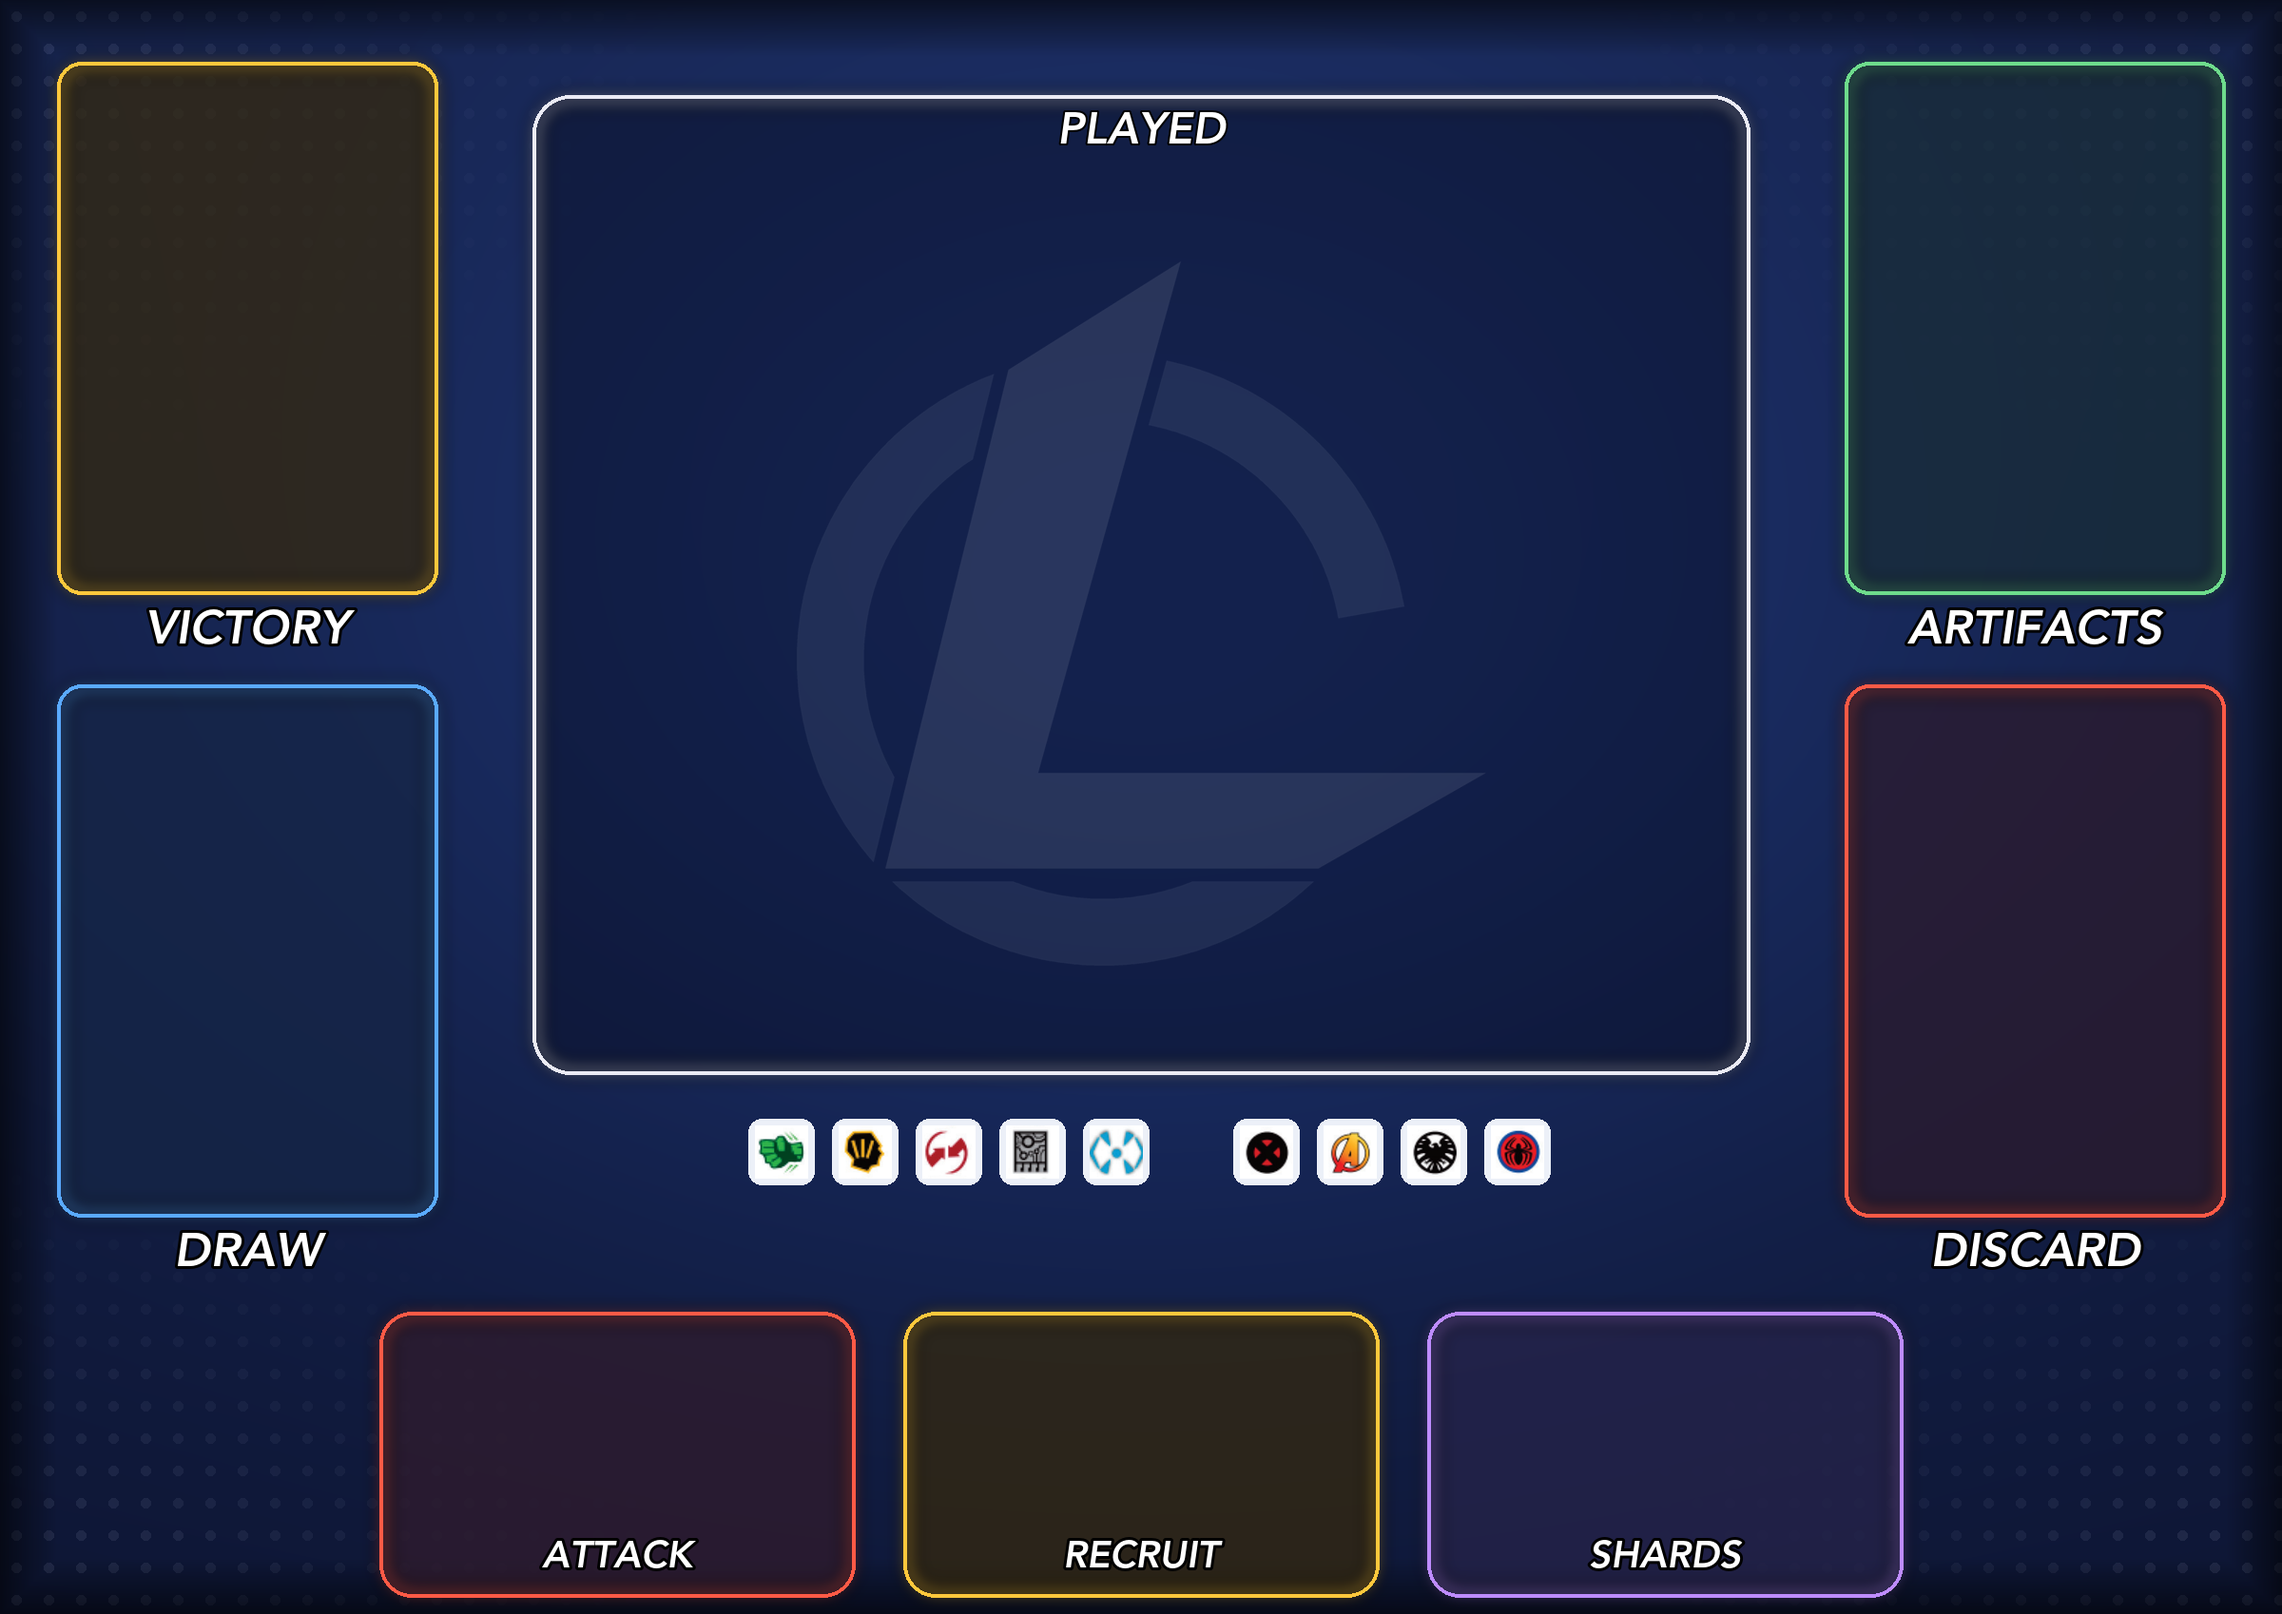
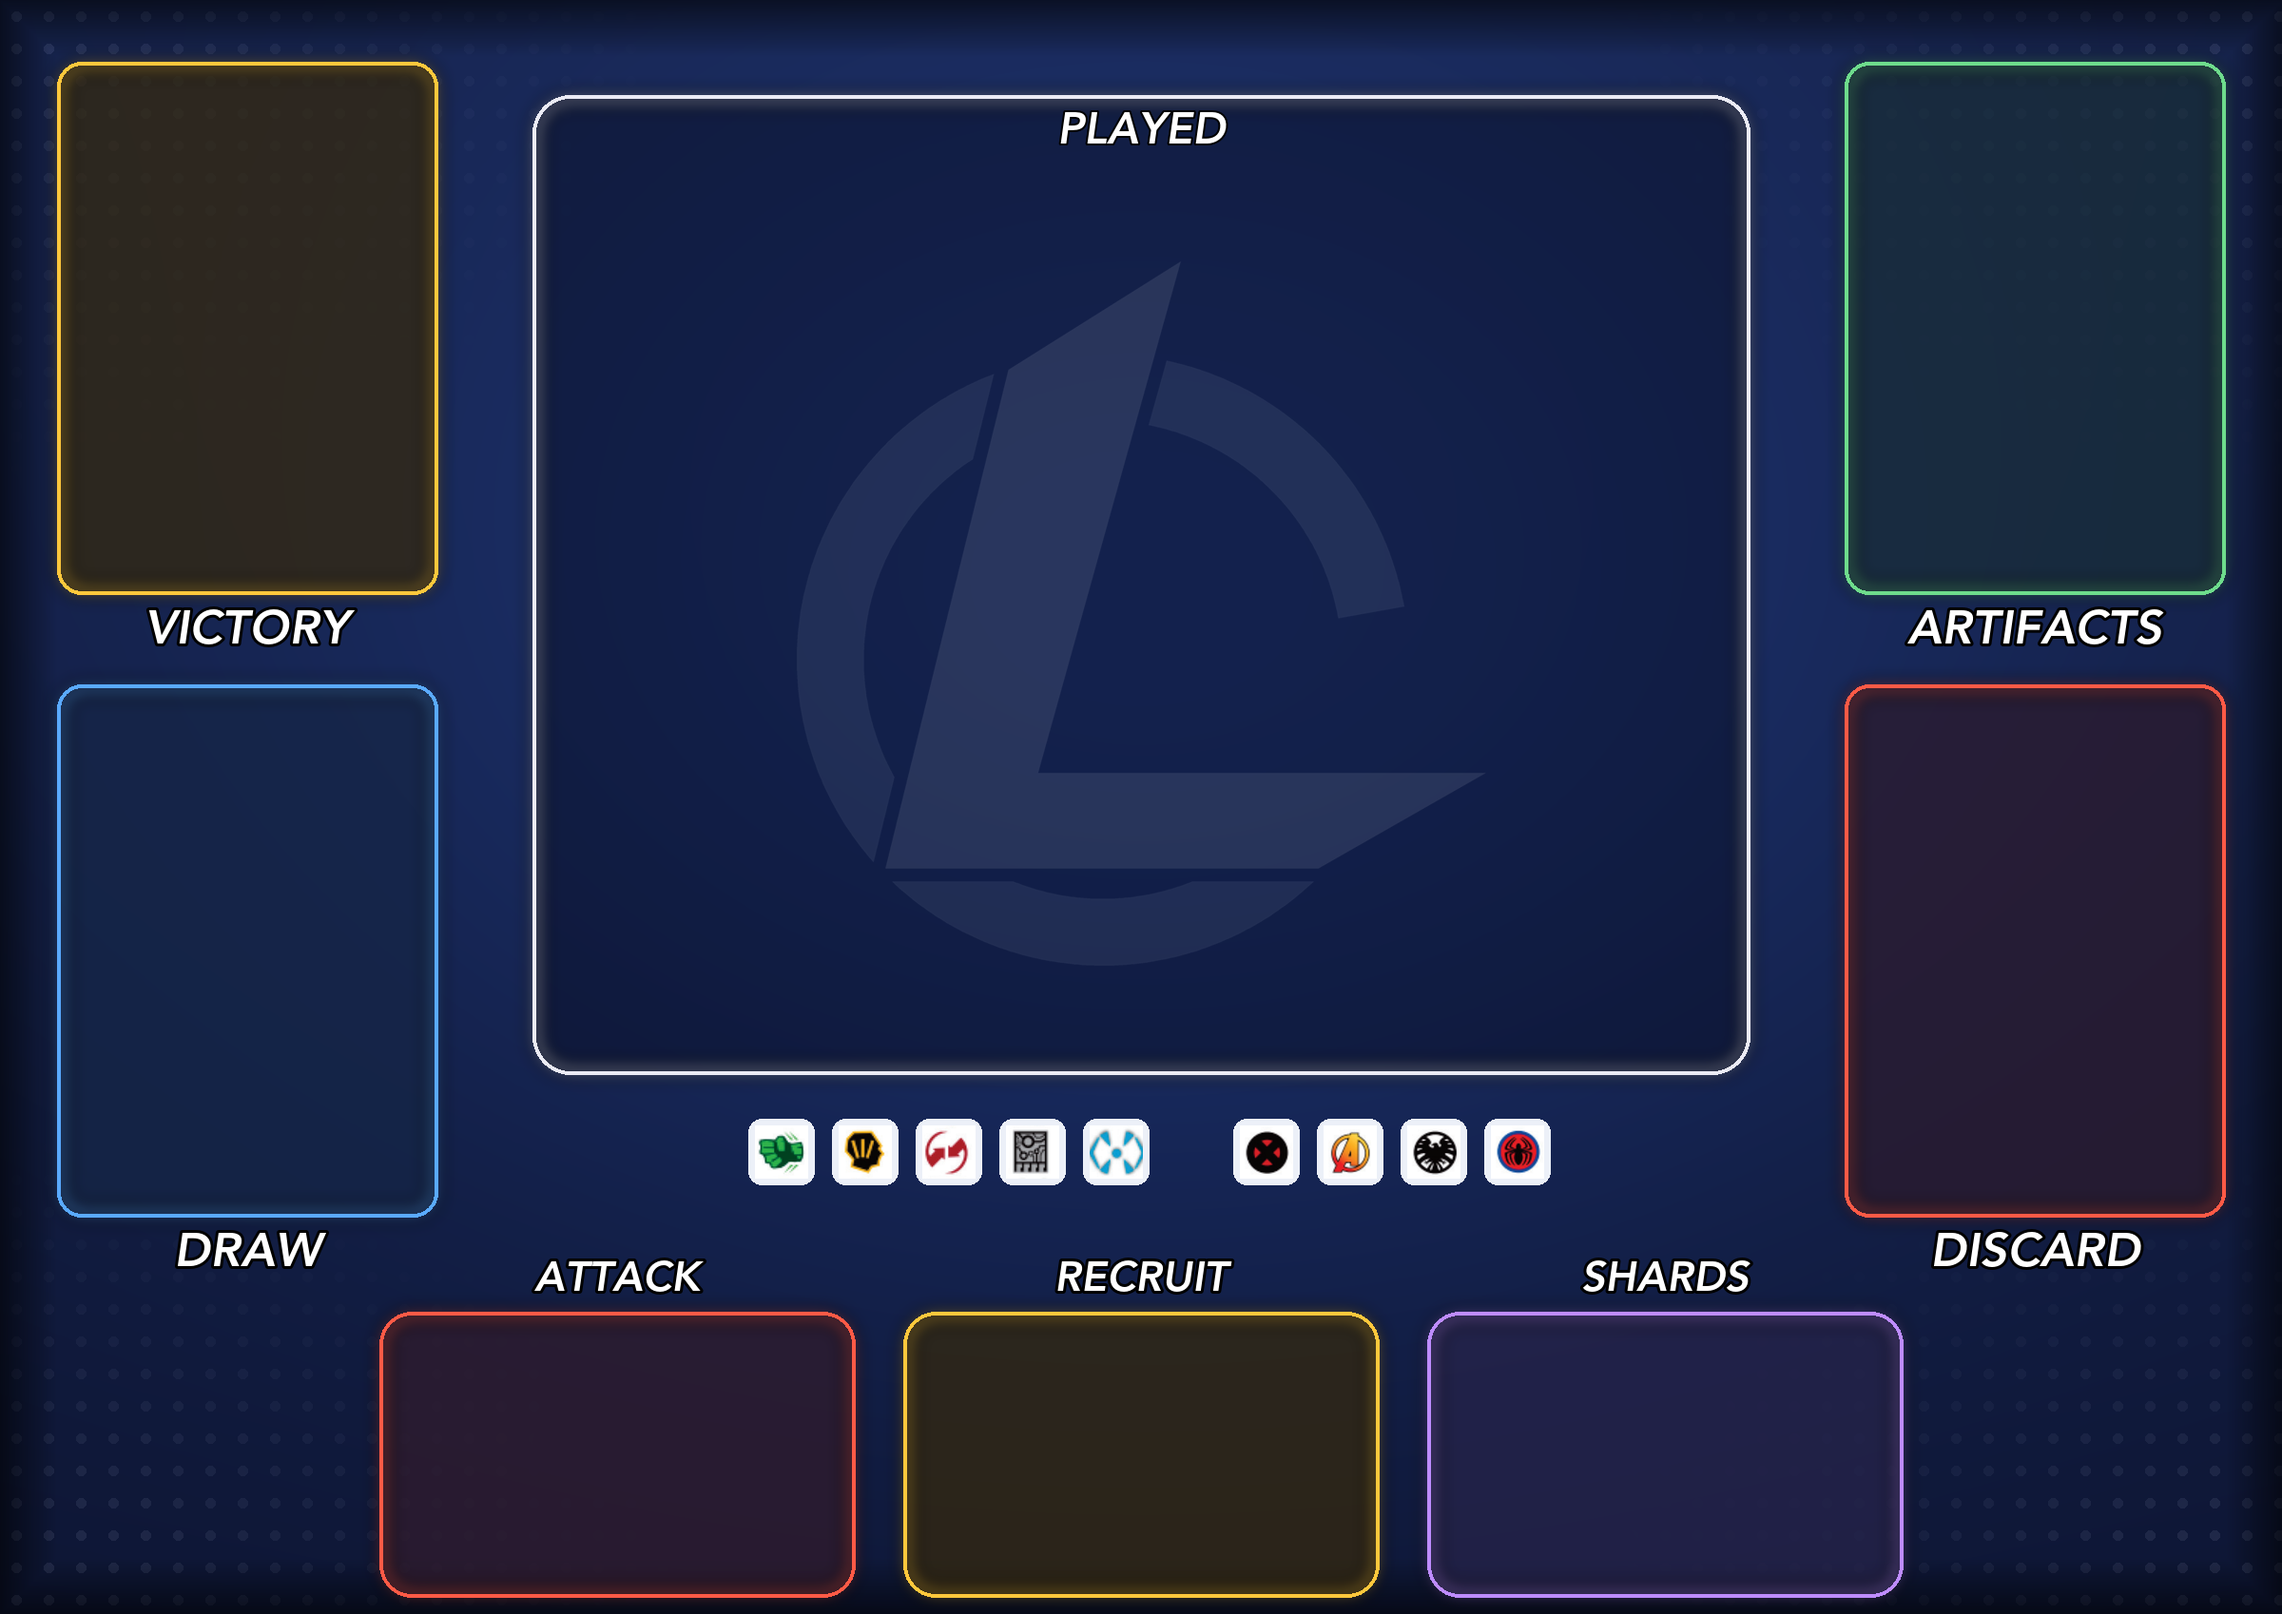
Player mat: pad labels back above their boxes now that the pads are smaller

diff --git a/mods/legendary-marvel/scripts/make_player_mat_v2.py b/mods/legendary-marvel/scripts/make_player_mat_v2.py
@@ -123,16 +123,16 @@ if os.path.exists(LOGO):
     lg.putalpha(lg.getchannel('A').point(lambda v: int(v * 0.10)))
     im.alpha_composite(lg, ((bx0 + bx1) // 2 - side // 2, (by0 + by1) // 2 - side // 2 + 30))
 
-# the three counter pads (Attack, Recruit, Shards) sit on these boxes and hide their middle, so each label goes along the box's bottom edge
+# the three counter pads (Attack, Recruit, Shards) sit on these boxes and hide their middle, so each label goes above its box
 PURPLE = (190, 140, 255)
 for uv, label, col in ((C.PM_ATTACK_UV, 'ATTACK', RED), (C.PM_RECRUIT_UV, 'RECRUIT', GOLD), (C.PM_SHARDS_UV, 'SHARDS', PURPLE)):
     cx, cy = px(uv)
     cy = int(C.PM_BOX_V * H)
     panel((cx - 250, cy - 150, cx + 250, cy + 150), None, accent=col, fill=tint(col, 0.16), r=34)
     _d = ImageDraw.Draw(im)
-    _f = font(40)
+    _f = font(44)
     _w = _d.textlength(label, font=_f)
-    _d.text((cx - _w / 2, cy + 150 - 62), label, font=_f, fill=(255, 255, 255, 240), stroke_width=3, stroke_fill=(0, 0, 0, 255))   # inside the bottom edge: the pad sits above it
+    _d.text((cx - _w / 2, cy - 150 - 56), label, font=_f, fill=(255, 255, 255, 240), stroke_width=3, stroke_fill=(0, 0, 0, 255))   # above the box: a pad covers the box from the camera side
 
 
 # ---- icons: class and team icons cut from the official Player Mat PDF (vector, rendered large), on light tiles so the dark ones show ----
